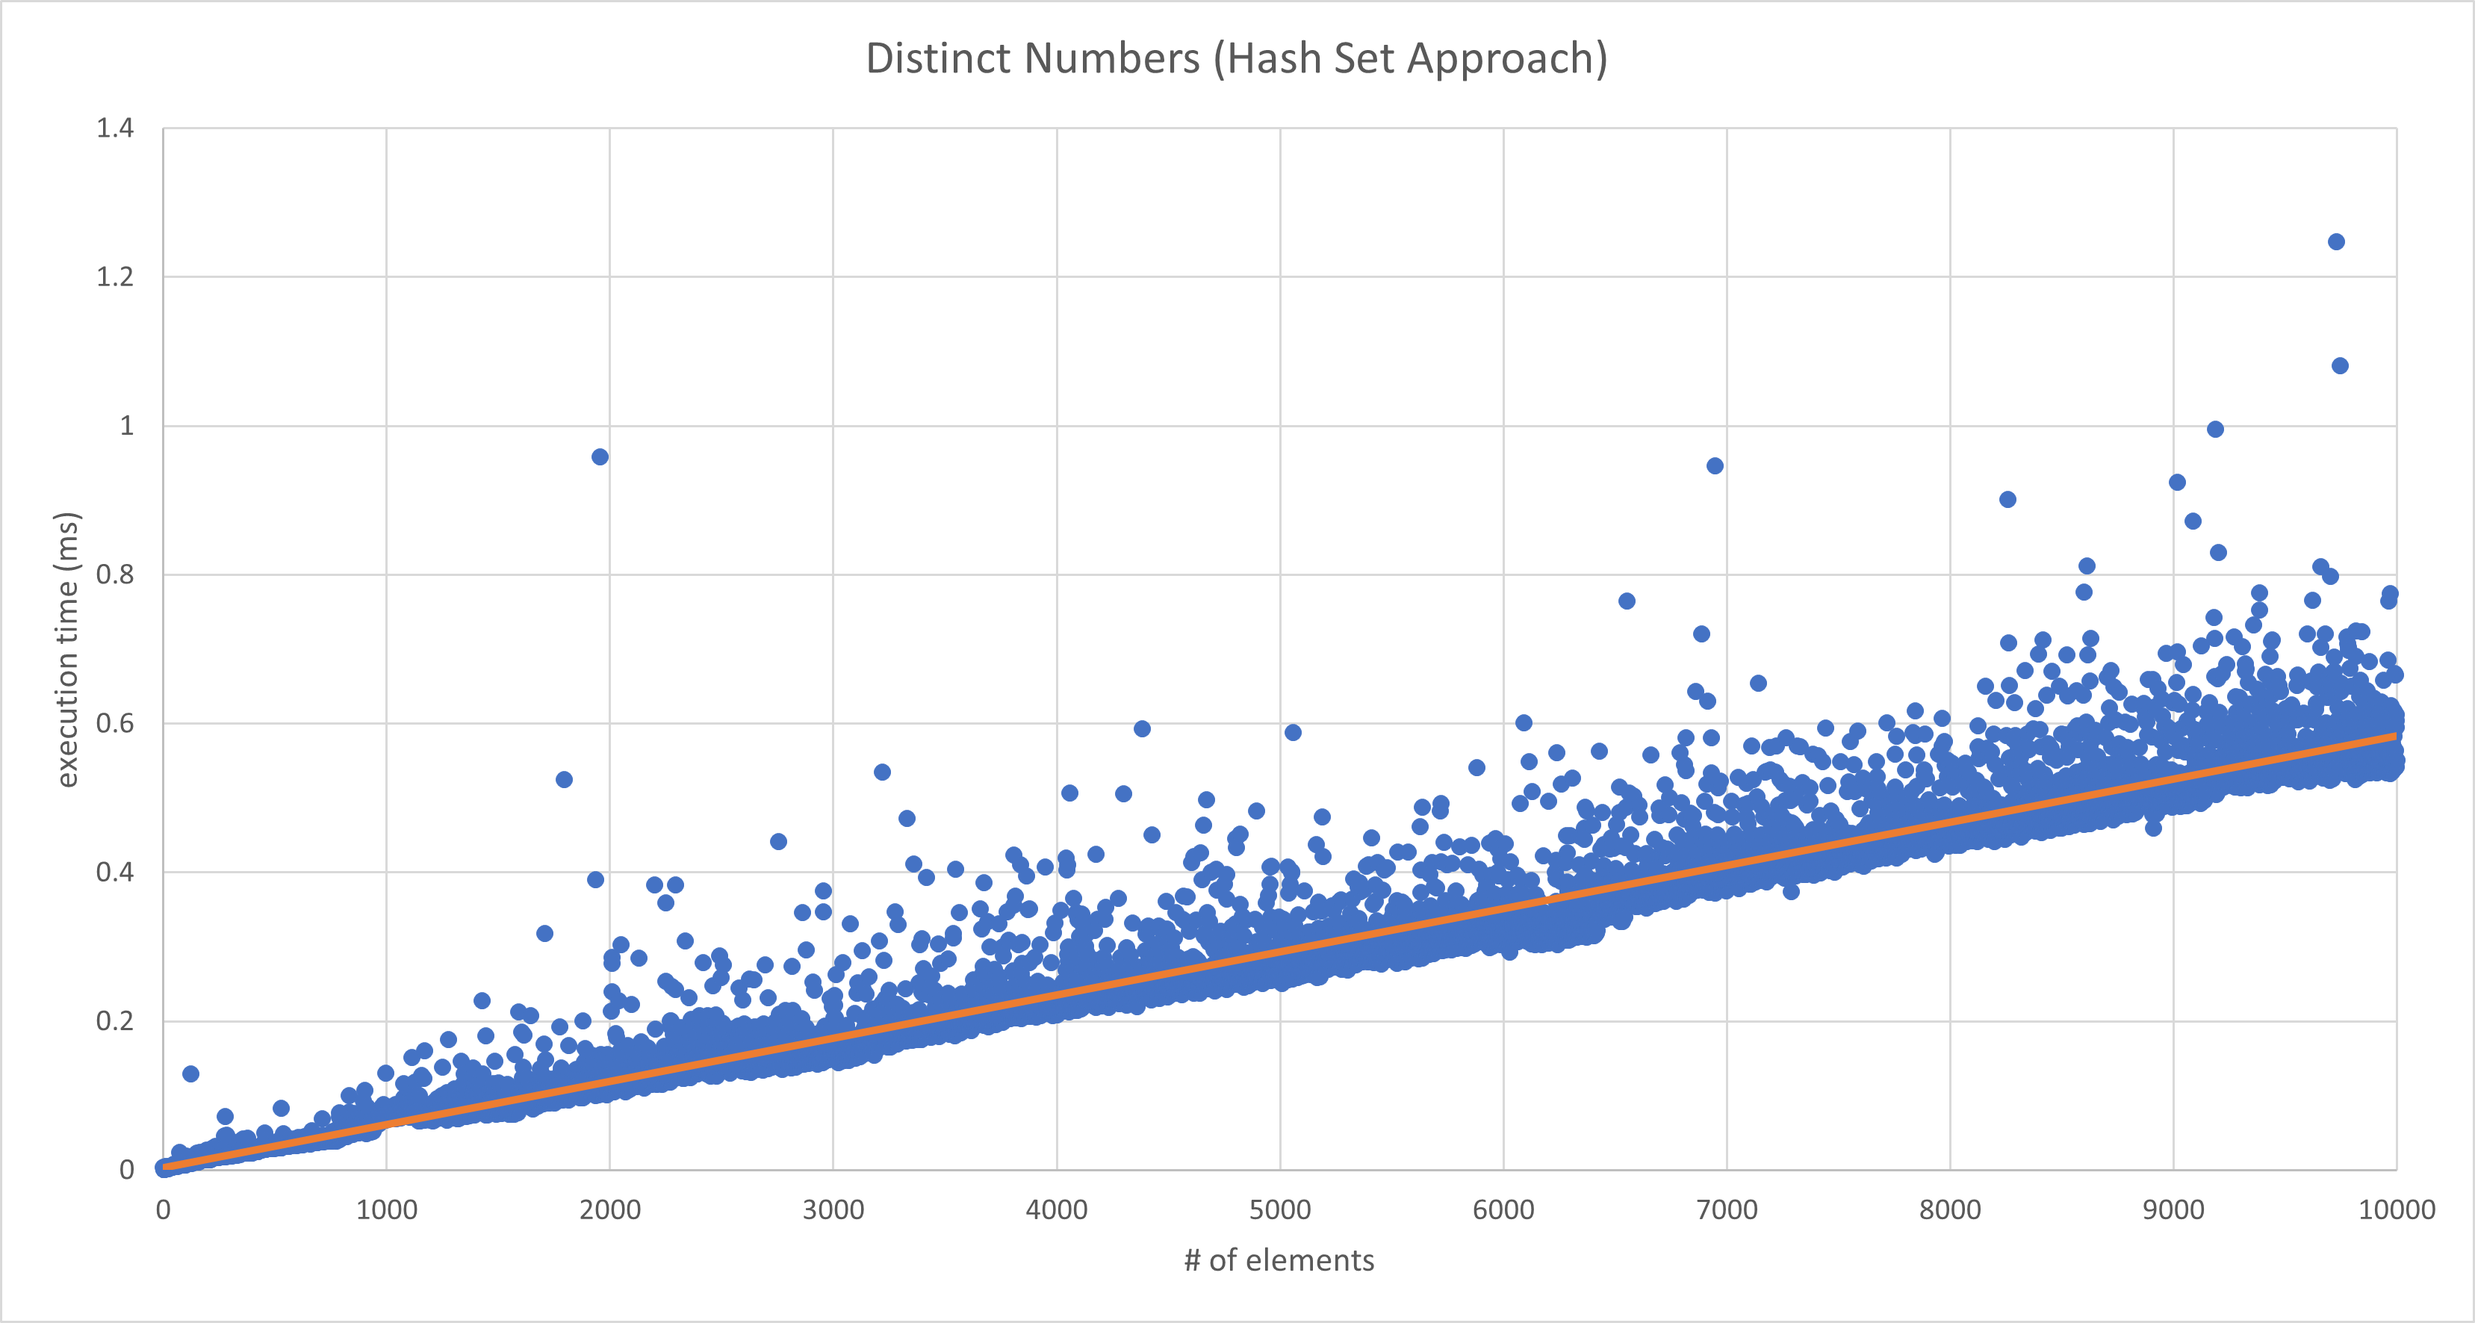
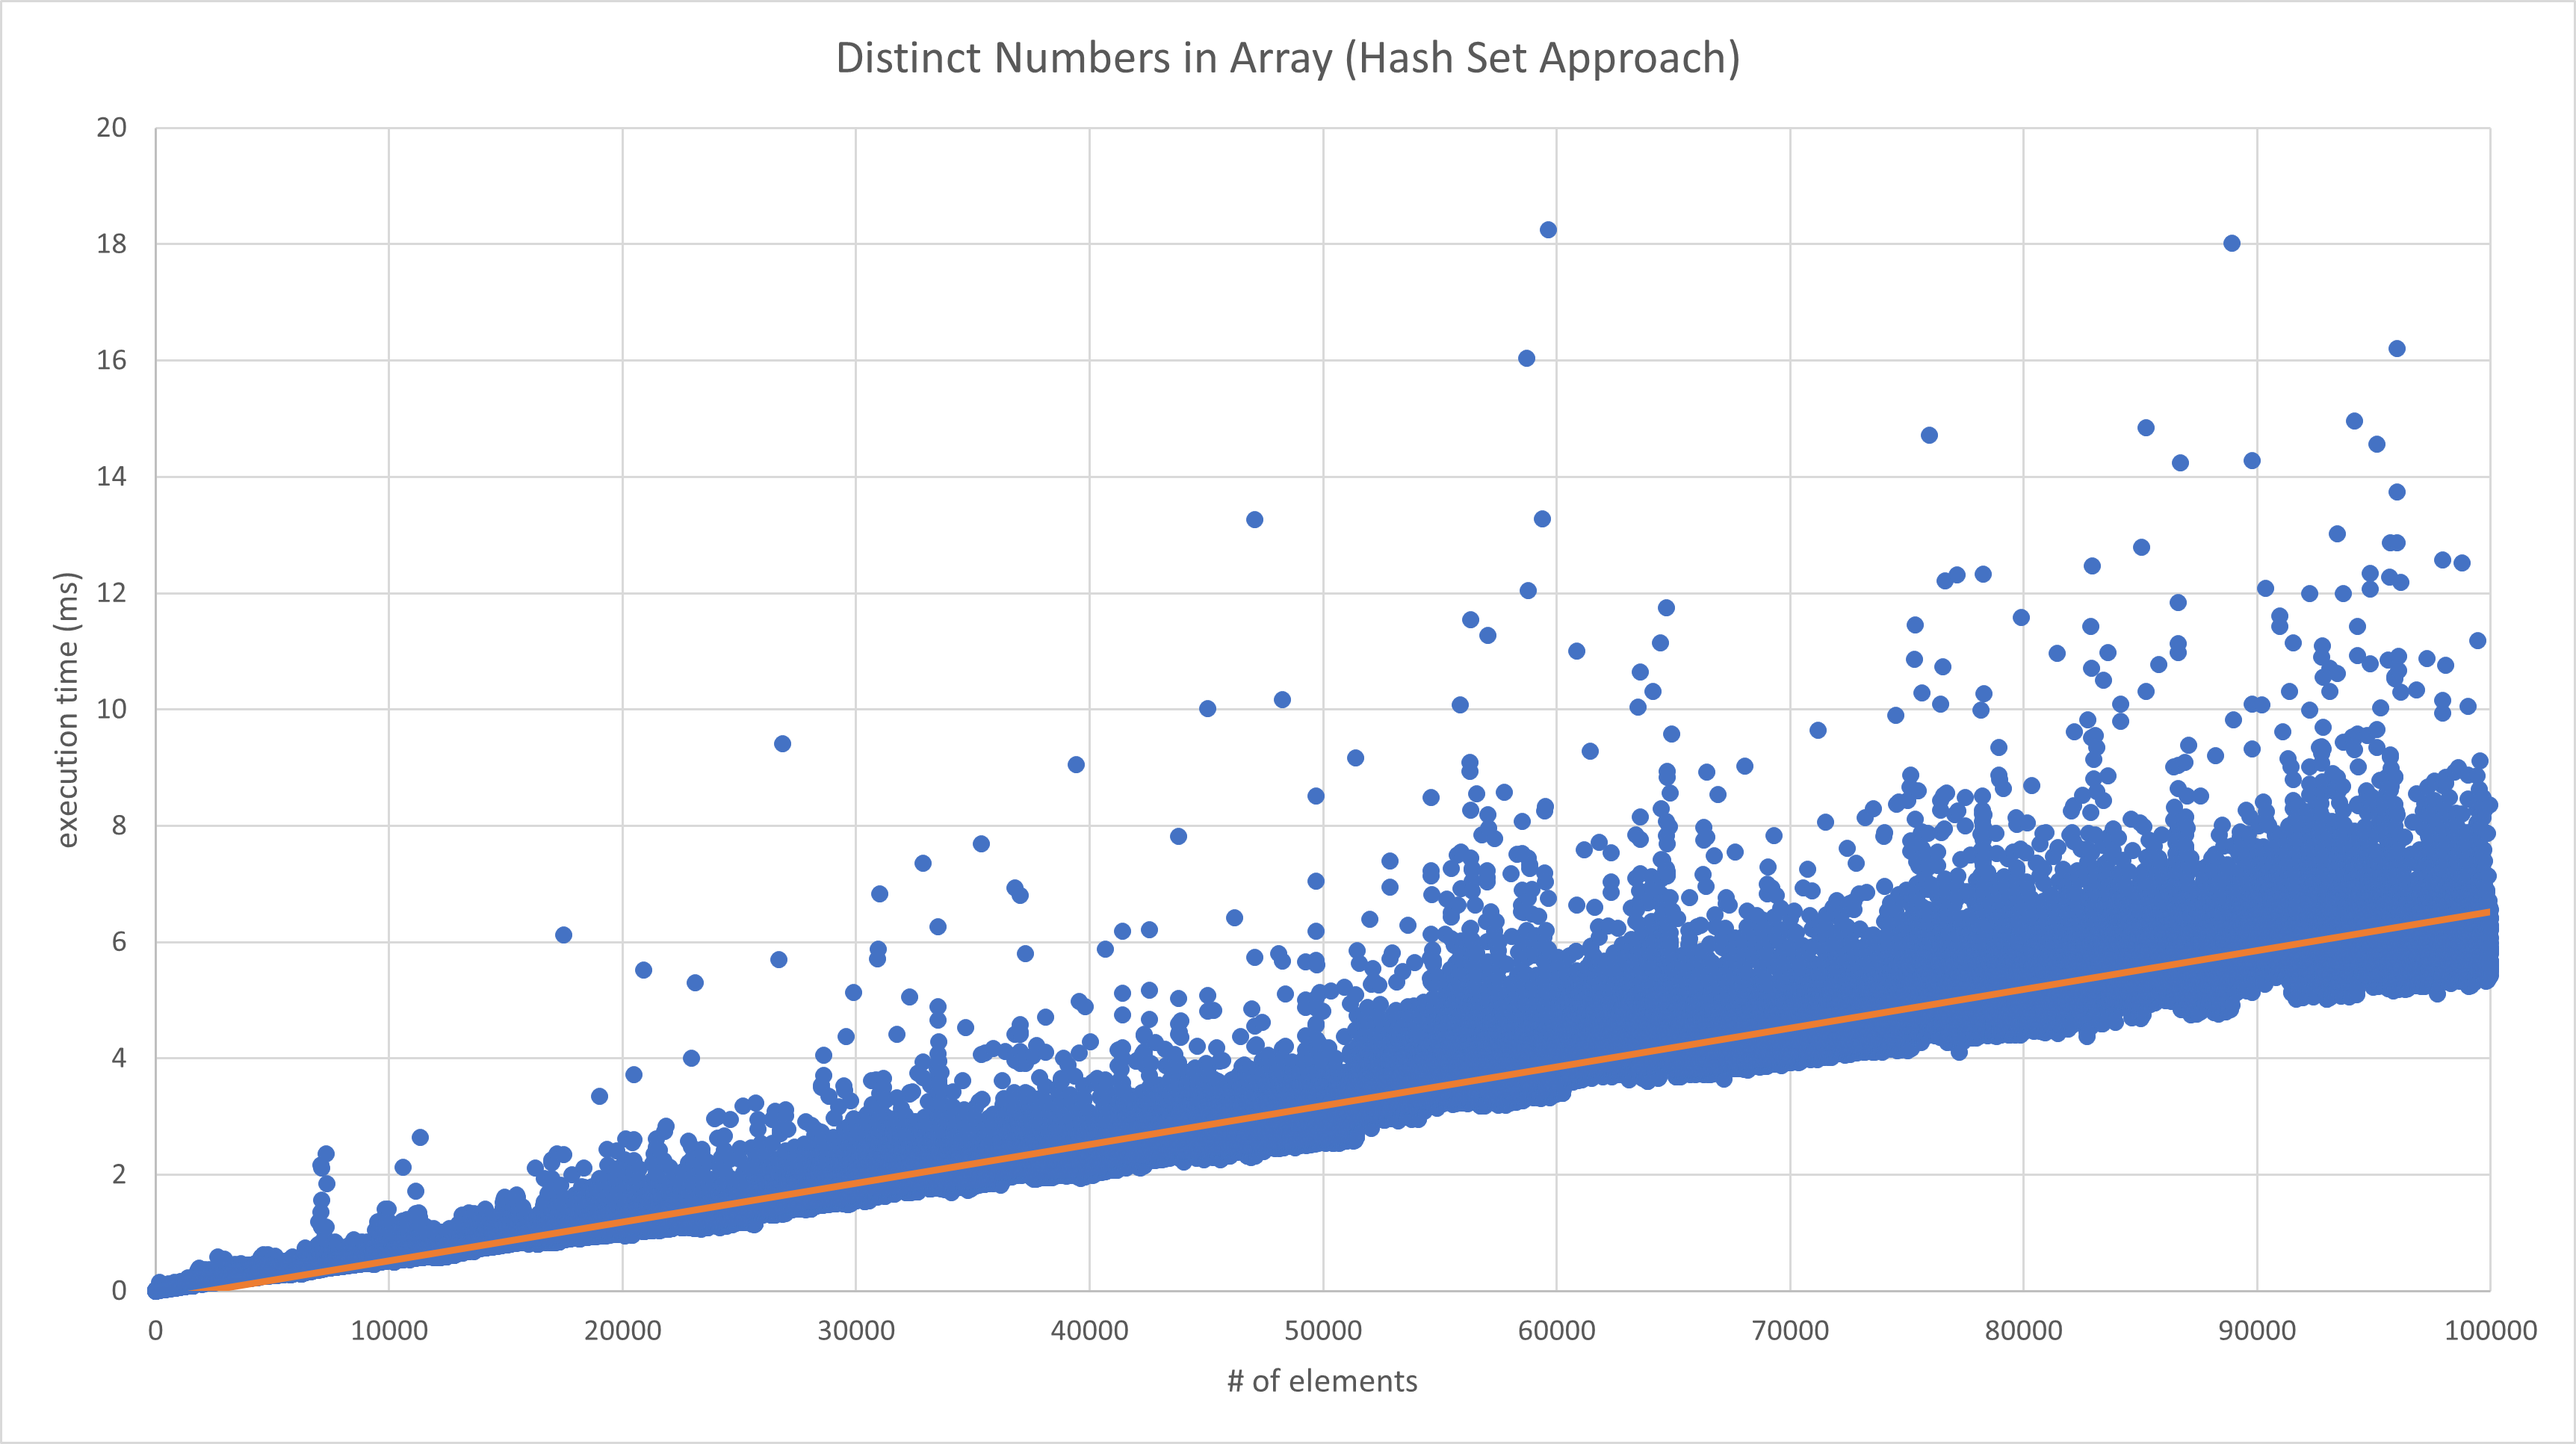
Use vector and loop to 100k

diff --git a/main.cpp b/main.cpp
@@ -1,20 +1,19 @@
 #include <algorithm>
 #include <fstream>
 #include <iostream>
-#include <list>
 #include <map>
 #include <random>
 #include <unordered_set>
 
-void shuffle(std::list<int>& list)
+void shuffle(std::vector<int>& arr)
 {
-    for (int i = static_cast<int>(list.size()) - 1; i > 0; --i) {
+    for (int i = static_cast<int>(arr.size()) - 1; i > 0; --i) {
         const int j = std::rand() % (i + 1); // NOLINT(*-msc50-cpp)
-        std::iter_swap(std::next(list.begin(), i), std::next(list.begin(), j));
+        std::swap(arr[i], arr[j]);
     }
 }
 
-bool check_distinct(const std::list<int>& list)
+bool check_distinct(const std::vector<int>& list)
 {
     std::unordered_set<int> set;
     bool distinct = true;
@@ -31,15 +30,15 @@ int main()
 {
     std::srand(69); // NOLINT(*-msc51-cpp)
 
-    std::list<int> list;
+    std::vector<int> arr;
     std::map<int, double> times;
-    for (int i = 0; i < 10000; ++i) {
+    for (int i = 0; i < 100000; ++i) {
         std::cout << "n = " << i << "\n";
-        list.push_back(i);
-        shuffle(list);
+        arr.push_back(i);
+        shuffle(arr);
 
         auto start = std::chrono::high_resolution_clock::now();
-        check_distinct(list);
+        check_distinct(arr);
         auto end = std::chrono::high_resolution_clock::now();
 
         std::chrono::duration<double, std::milli> duration = end - start;
